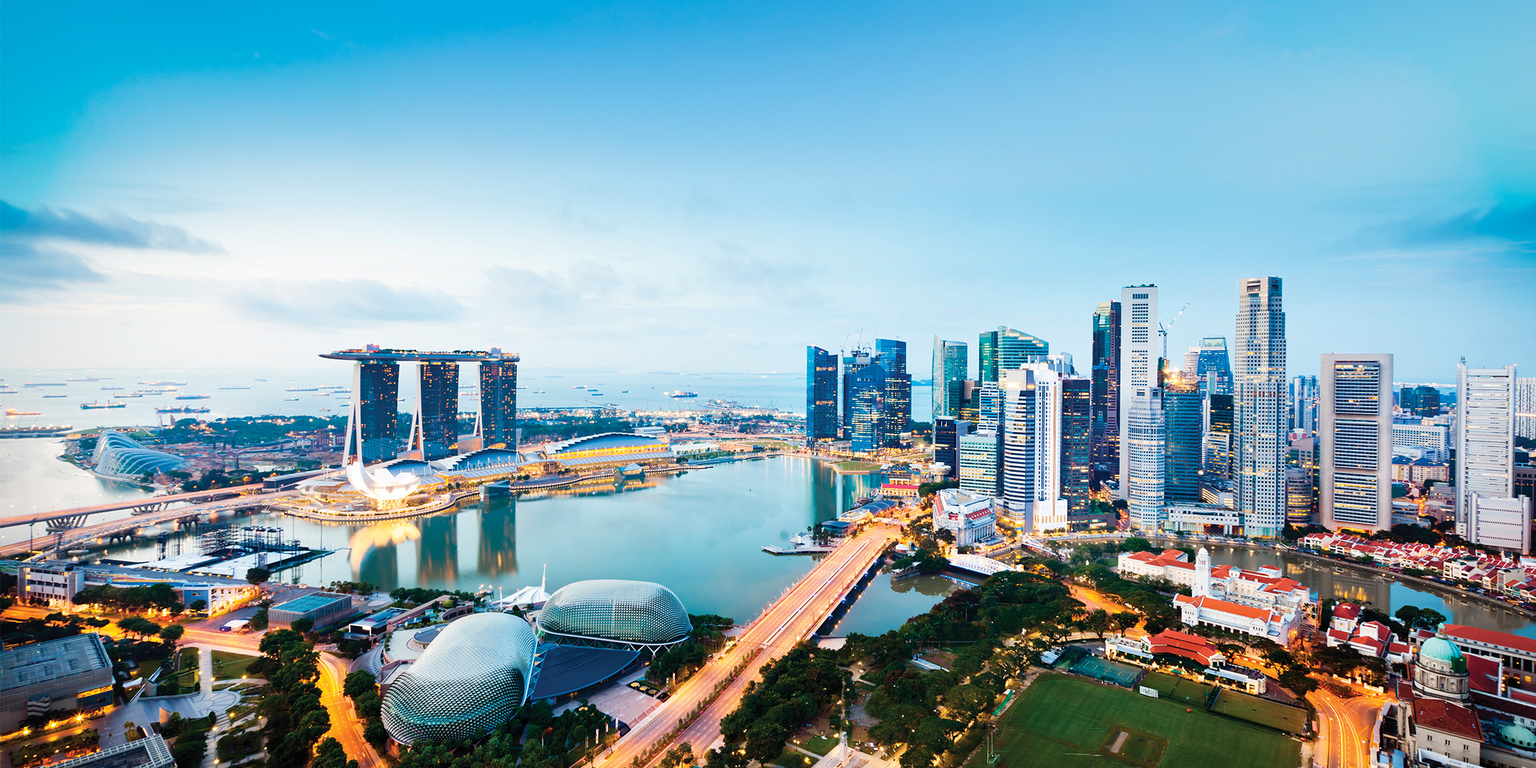
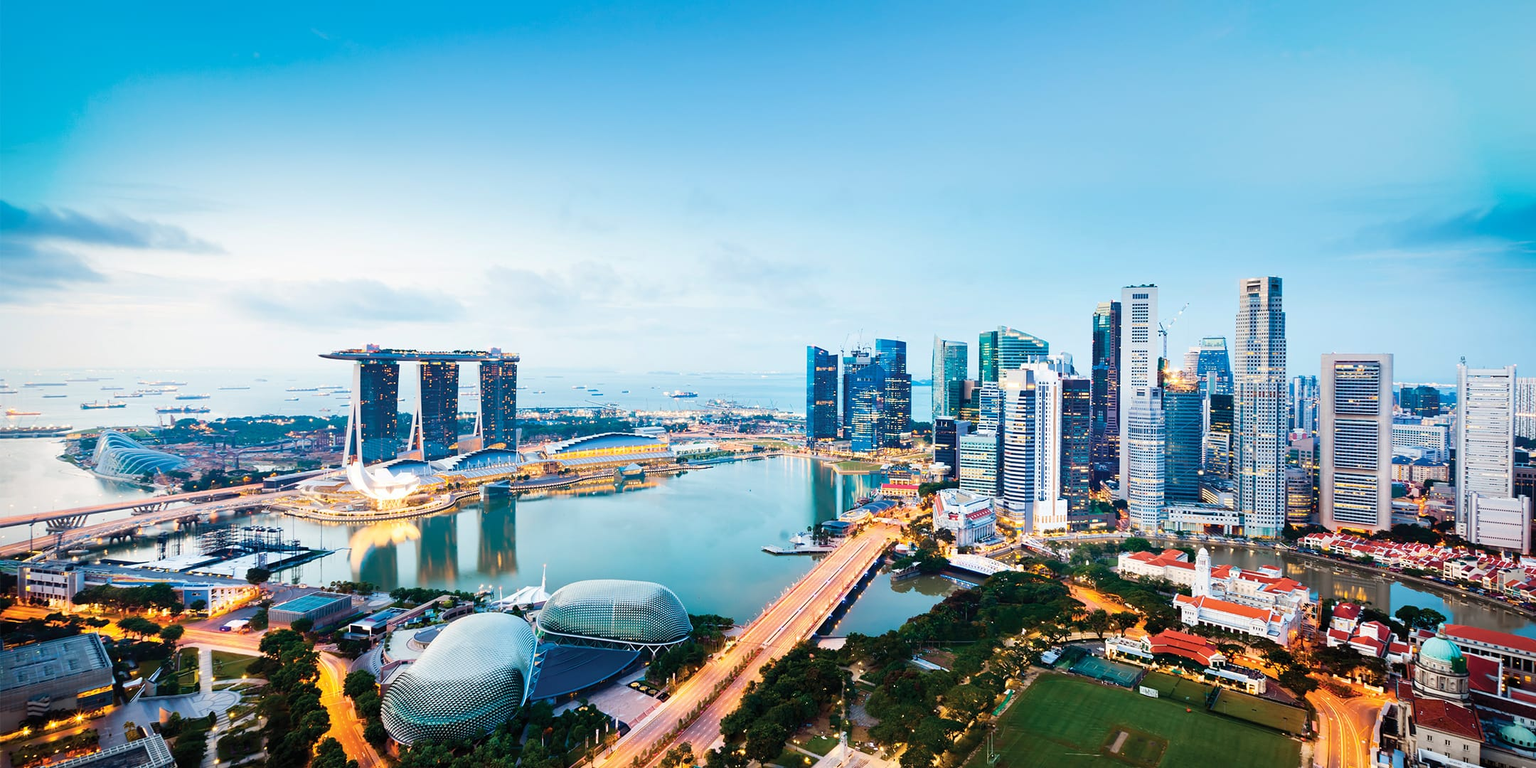
Fri 1 Jul - Fix highlighting bugs and resize background image

diff --git a/index.html b/index.html
@@ -24,7 +24,7 @@
 
 	</head>
 
-	<body data-spy="scroll" data-target= ".navbar-fixed-top">
+	<body data-target= ".navbar-fixed-top">
 		<nav class="navbar navbar-default navbar-fixed-top">
 			<div class="container">
 				<!-- Brand and toggle get grouped for better mobile display -->
